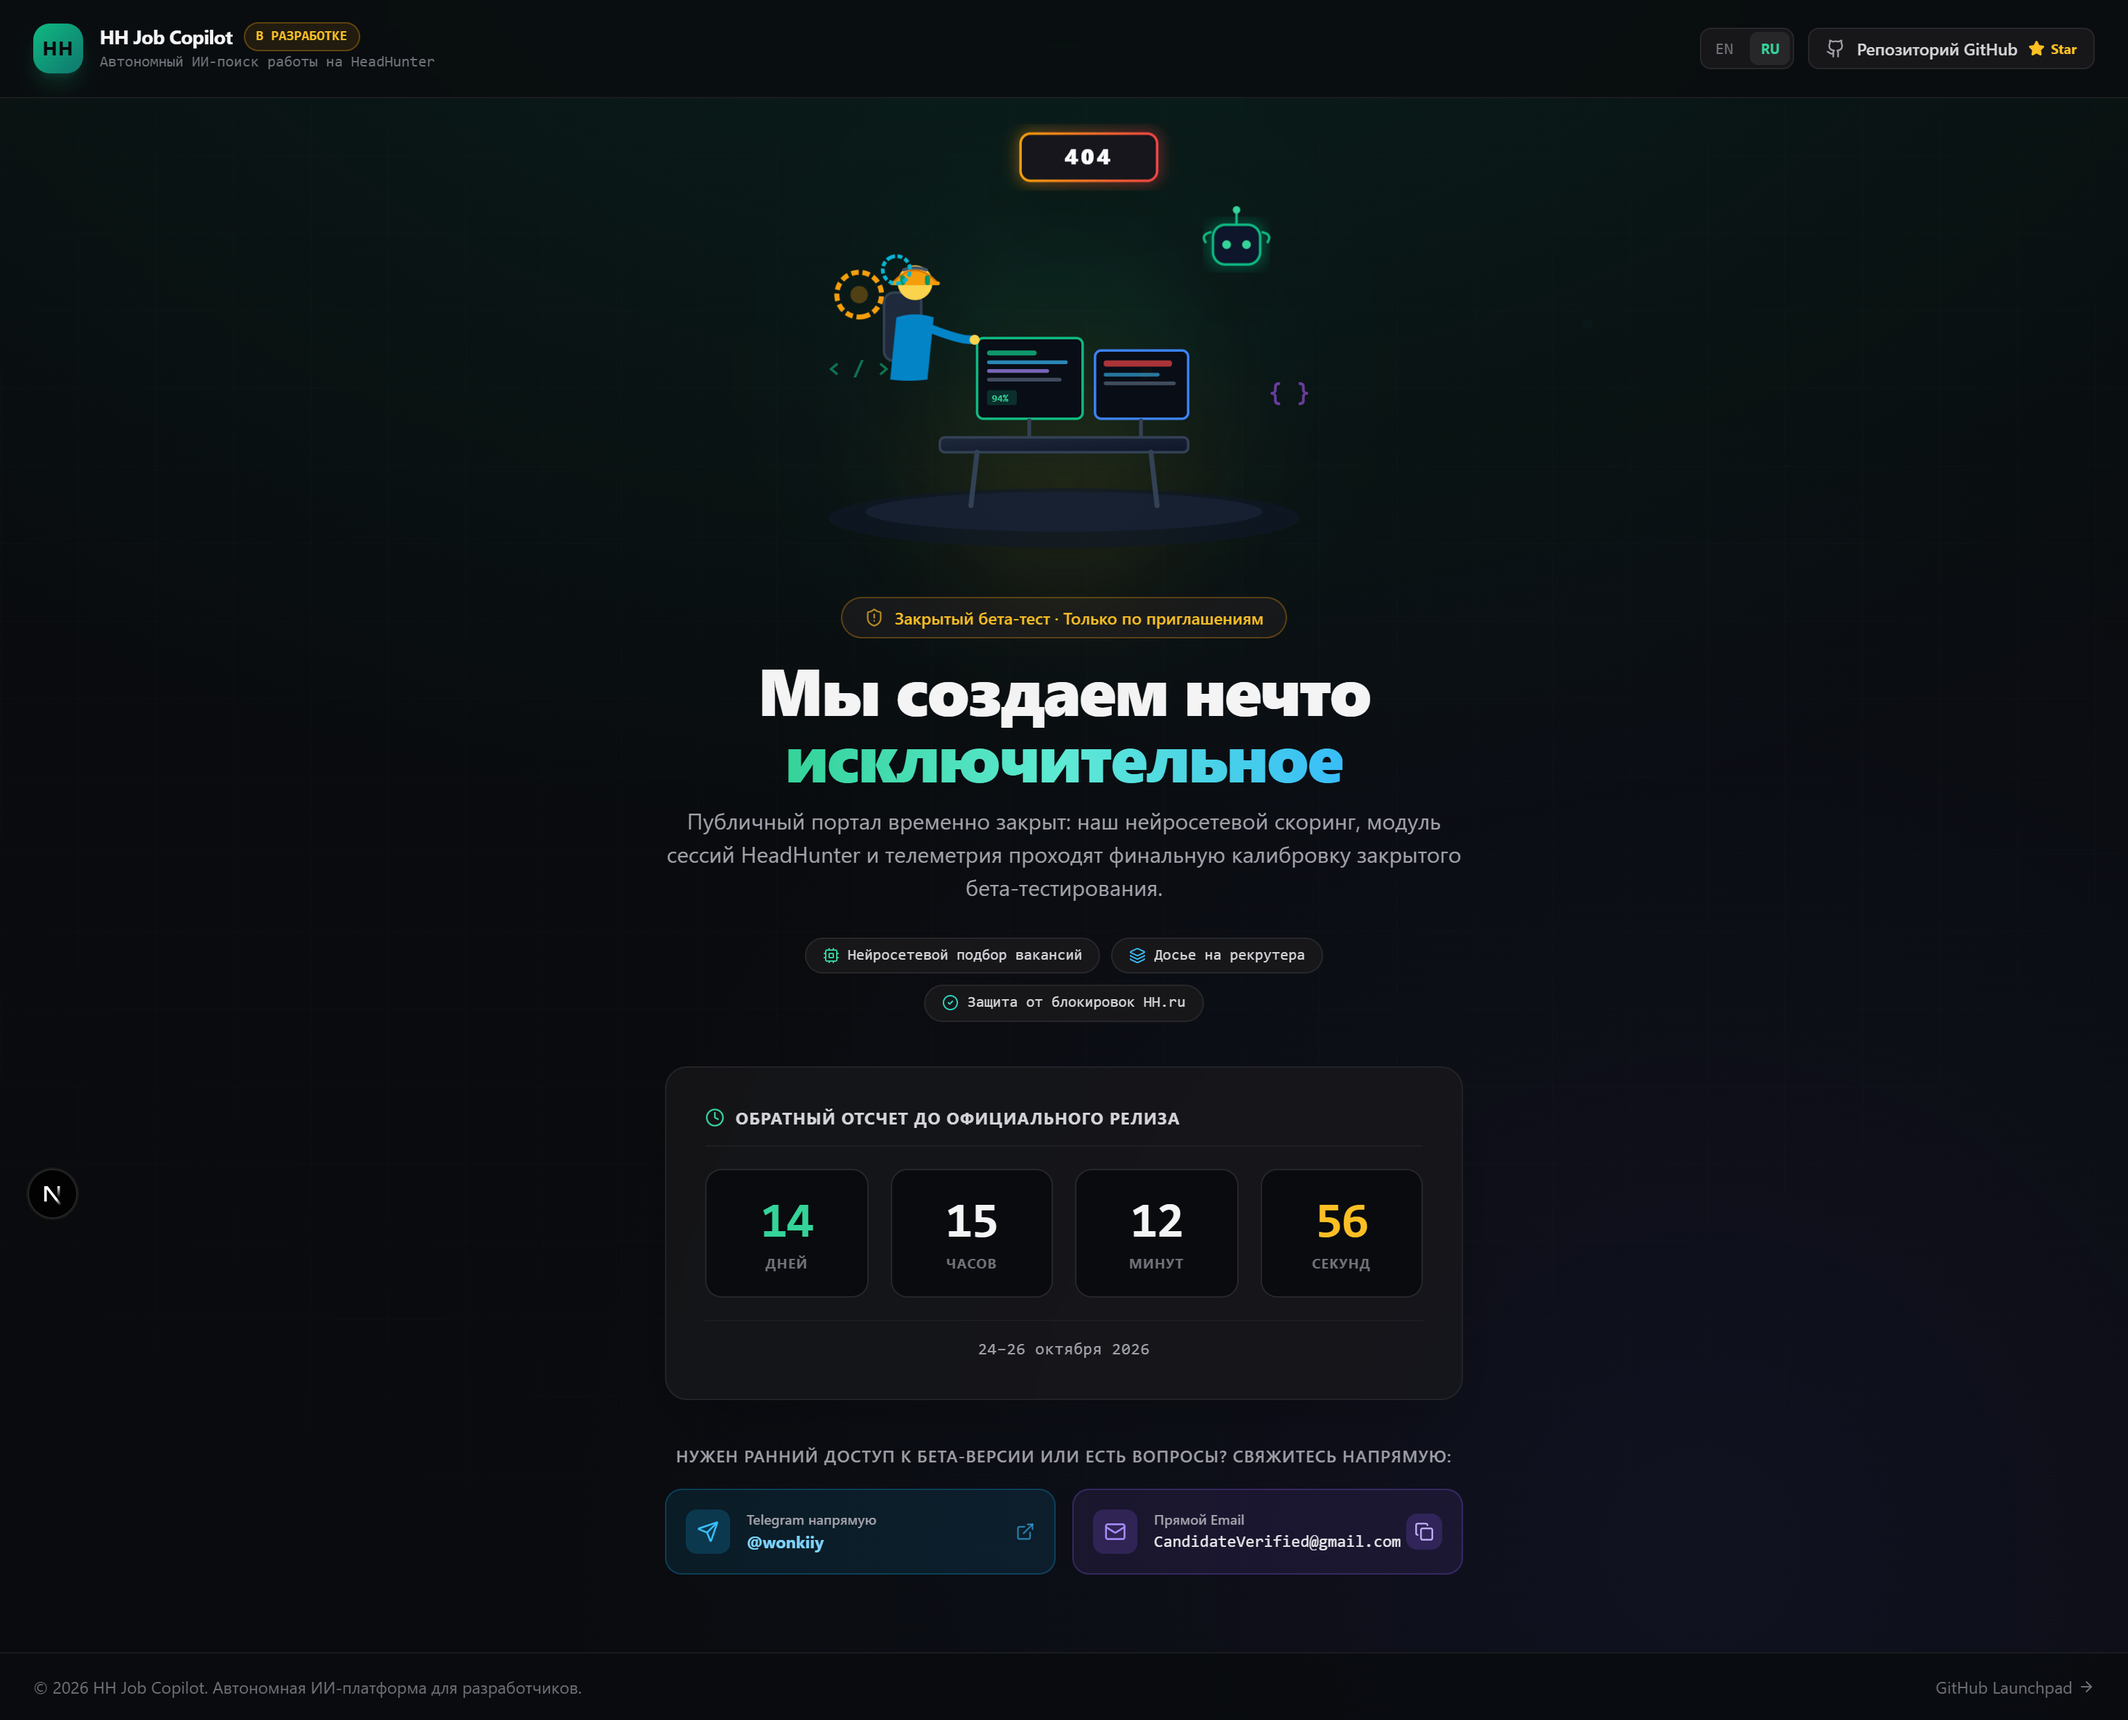
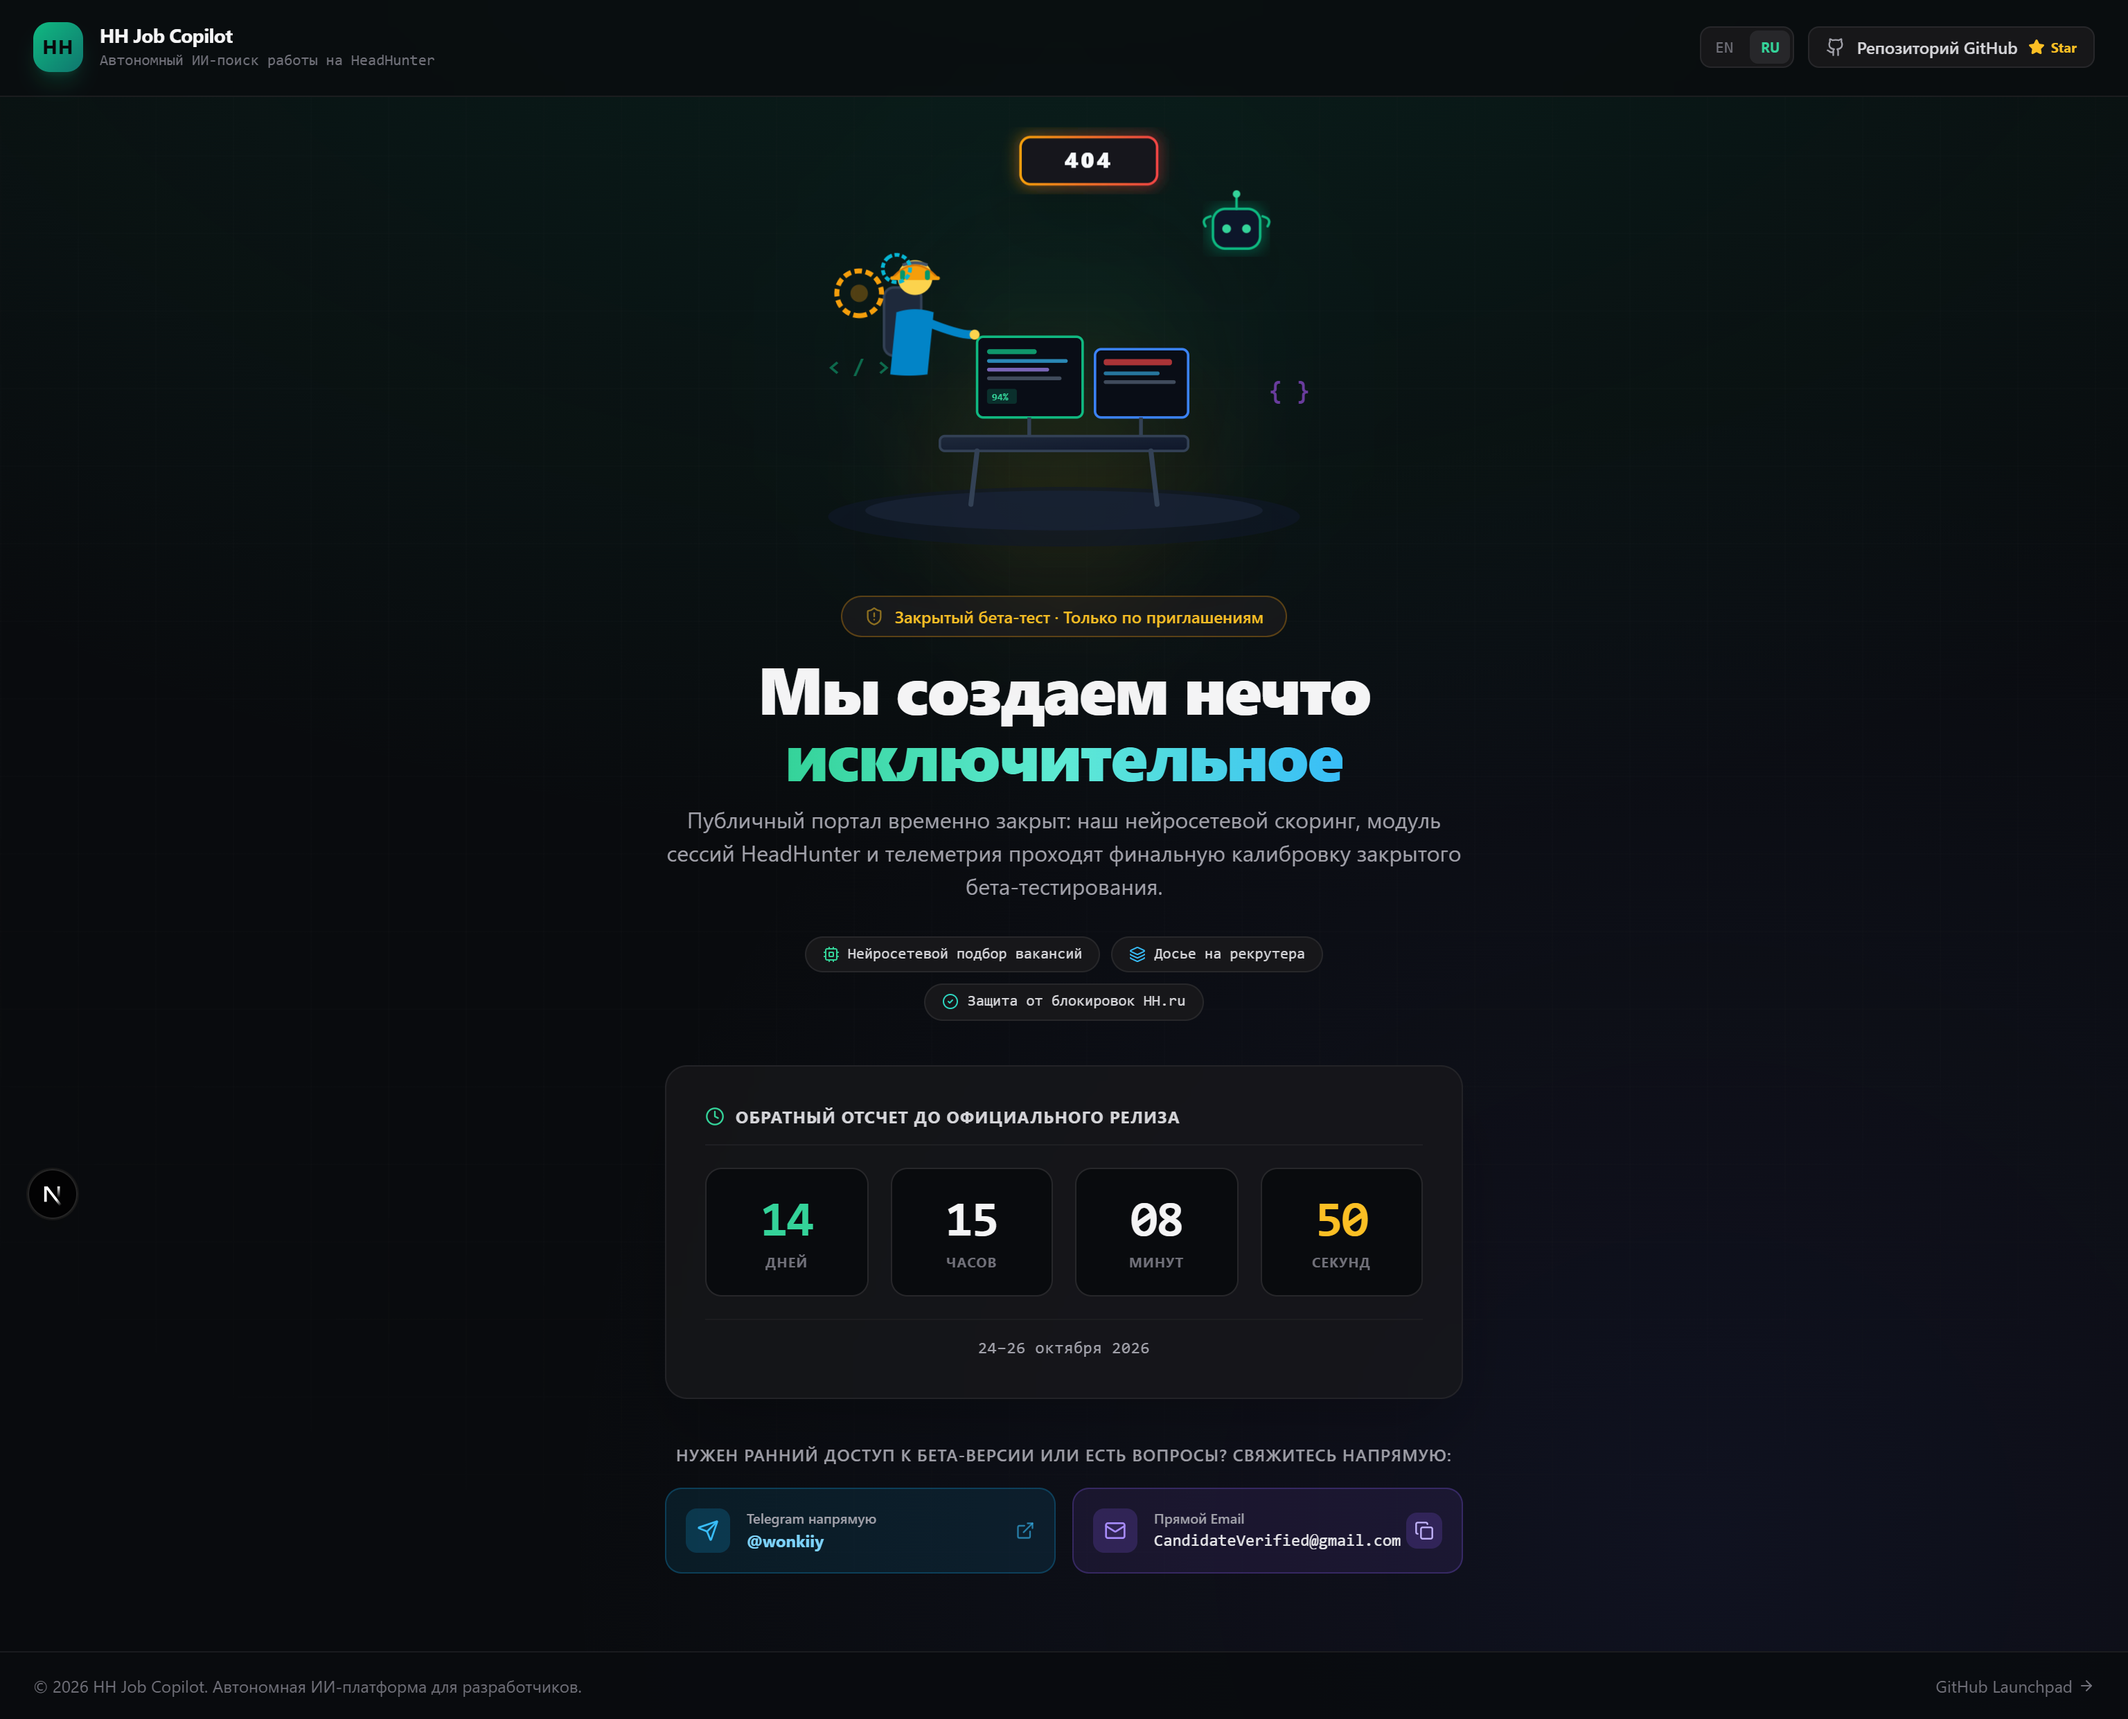
feat-remove-navbar-under-construction-badge

diff --git a/src/components/UnderConstruction404.tsx b/src/components/UnderConstruction404.tsx
@@ -31,7 +31,6 @@ const LAUNCH_DATE_MS = new Date("2026-10-24T00:00:00Z").getTime();
 
 const CONTENT = {
   en: {
-    brandTag: "Under Construction",
     brandDesc: "Autonomous AI Job Search for HeadHunter",
     githubRepo: "GitHub Repository",
     status404: "HTTP 404 · Route Under Construction",
@@ -55,7 +54,6 @@ const CONTENT = {
     footerLaunchpad: "GitHub Launchpad",
   },
   ru: {
-    brandTag: "В разработке",
     brandDesc: "Автономный ИИ-поиск работы на HeadHunter",
     githubRepo: "Репозиторий GitHub",
     status404: "HTTP 404 · Страница в разработке",
@@ -149,9 +147,6 @@ export default function UnderConstruction404({ is404 = true }: { is404?: boolean
           <div>
             <div className="flex items-center gap-2">
               <span className="font-bold text-sm text-zinc-100 tracking-tight">HH Job Copilot</span>
-              <span className="text-[10px] font-mono px-2 py-0.5 rounded-full bg-amber-500/10 text-amber-400 border border-amber-500/30 font-semibold uppercase">
-                {t.brandTag}
-              </span>
             </div>
             <p className="text-[11px] text-zinc-500 font-mono">{t.brandDesc}</p>
           </div>
